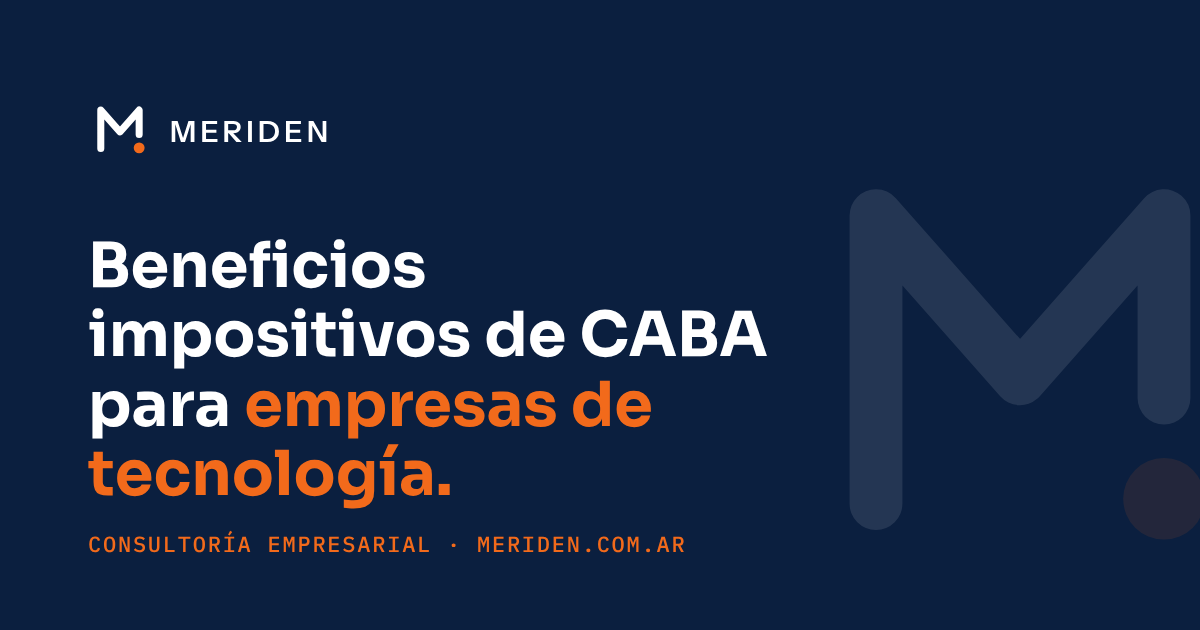
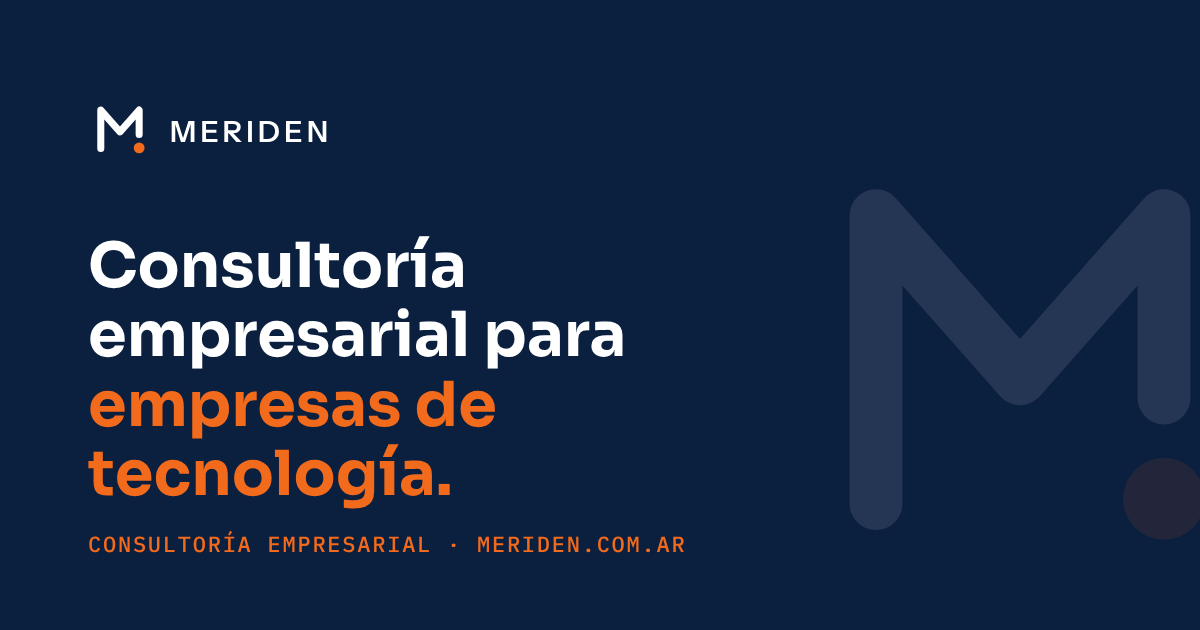
Reescribir el inicio como consultora empresarial general
Claude-Session: https://claude.ai/code/session_01HLBwBSJVW9A2wzWc8EUiJk

Changed region(s): [[0.0617, 0.3619, 0.6475, 0.6937]]

diff --git a/index.html b/index.html
@@ -3,13 +3,13 @@
 <head>
   <meta charset="utf-8">
   <meta name="viewport" content="width=device-width, initial-scale=1">
-  <title>Meriden · Consultoría empresarial para empresas de tecnología</title>
-  <meta name="description" content="Meriden gestiona los beneficios impositivos de la Ciudad de Buenos Aires para empresas de tecnología: Distrito Tecnológico, Economía del Conocimiento, trámites con el Estado y soluciones empresariales.">
+  <title>Meriden · Consultoría empresarial</title>
+  <meta name="description" content="Meriden es una consultora empresarial para empresas de tecnología: beneficios impositivos de la Ciudad de Buenos Aires, trámites con el Estado y soluciones empresariales.">
   <link rel="canonical" href="https://meriden.com.ar/">
   <link rel="icon" href="assets/img/simbolo.svg" type="image/svg+xml">
   <meta property="og:type" content="website">
   <meta property="og:title" content="Meriden · Consultoría empresarial">
-  <meta property="og:description" content="Beneficios impositivos de CABA, trámites con el Estado y soluciones empresariales para empresas de tecnología.">
+  <meta property="og:description" content="Consultoría empresarial para empresas de tecnología: beneficios impositivos, trámites con el Estado y soluciones empresariales.">
   <meta property="og:url" content="https://meriden.com.ar/">
   <meta property="og:image" content="https://meriden.com.ar/assets/img/compartir.png">
   <meta property="og:image:width" content="1200">
@@ -49,17 +49,17 @@
   <!-- HERO -->
   <section class="hero grid-dark" id="inicio">
     <div class="wrap hero__in">
-      <p class="eyebrow eyebrow--light">Consultoría empresarial · Ciudad de Buenos Aires</p>
-      <h1>Tu empresa de tecnología puede pagar menos impuestos en CABA. <span class="accent">Nosotros hacemos el trámite.</span></h1>
-      <p class="hero__lead">Gestionamos la inscripción en el Distrito Tecnológico y en el régimen de Economía del Conocimiento de la Ciudad, de punta a punta: desde el diagnóstico hasta el expediente aprobado.</p>
+      <p class="eyebrow eyebrow--light">Meriden · Ciudad de Buenos Aires</p>
+      <h1>Consultoría empresarial para empresas de tecnología. <span class="accent">Resolvemos lo que te frena.</span></h1>
+      <p class="hero__lead">Gestionamos tus beneficios impositivos, tus trámites con el Estado y las decisiones de gestión que hacen crecer a tu empresa. Somos especialistas en los regímenes de promoción de la Ciudad de Buenos Aires.</p>
       <div class="hero__cta">
         <a href="#contacto" class="btn">Pedí un diagnóstico</a>
-        <a href="#regimenes" class="btn btn--ghost">Ver los beneficios</a>
+        <a href="#servicios" class="btn btn--ghost">Ver servicios</a>
       </div>
-      <ul class="hero__facts" aria-label="Beneficios principales">
-        <li><span class="mono">IIBB</span>Ingresos Brutos</li>
-        <li><span class="mono">SELLOS</span>Impuesto de Sellos</li>
-        <li><span class="mono">ABL</span>Alumbrado, Barrido y Limpieza</li>
+      <ul class="hero__facts" aria-label="Líneas de trabajo">
+        <li><span class="mono">01</span>Beneficios impositivos</li>
+        <li><span class="mono">02</span>Trámites con el Estado</li>
+        <li><span class="mono">03</span>Soluciones empresariales</li>
       </ul>
     </div>
     <div class="hero__mark" aria-hidden="true">
